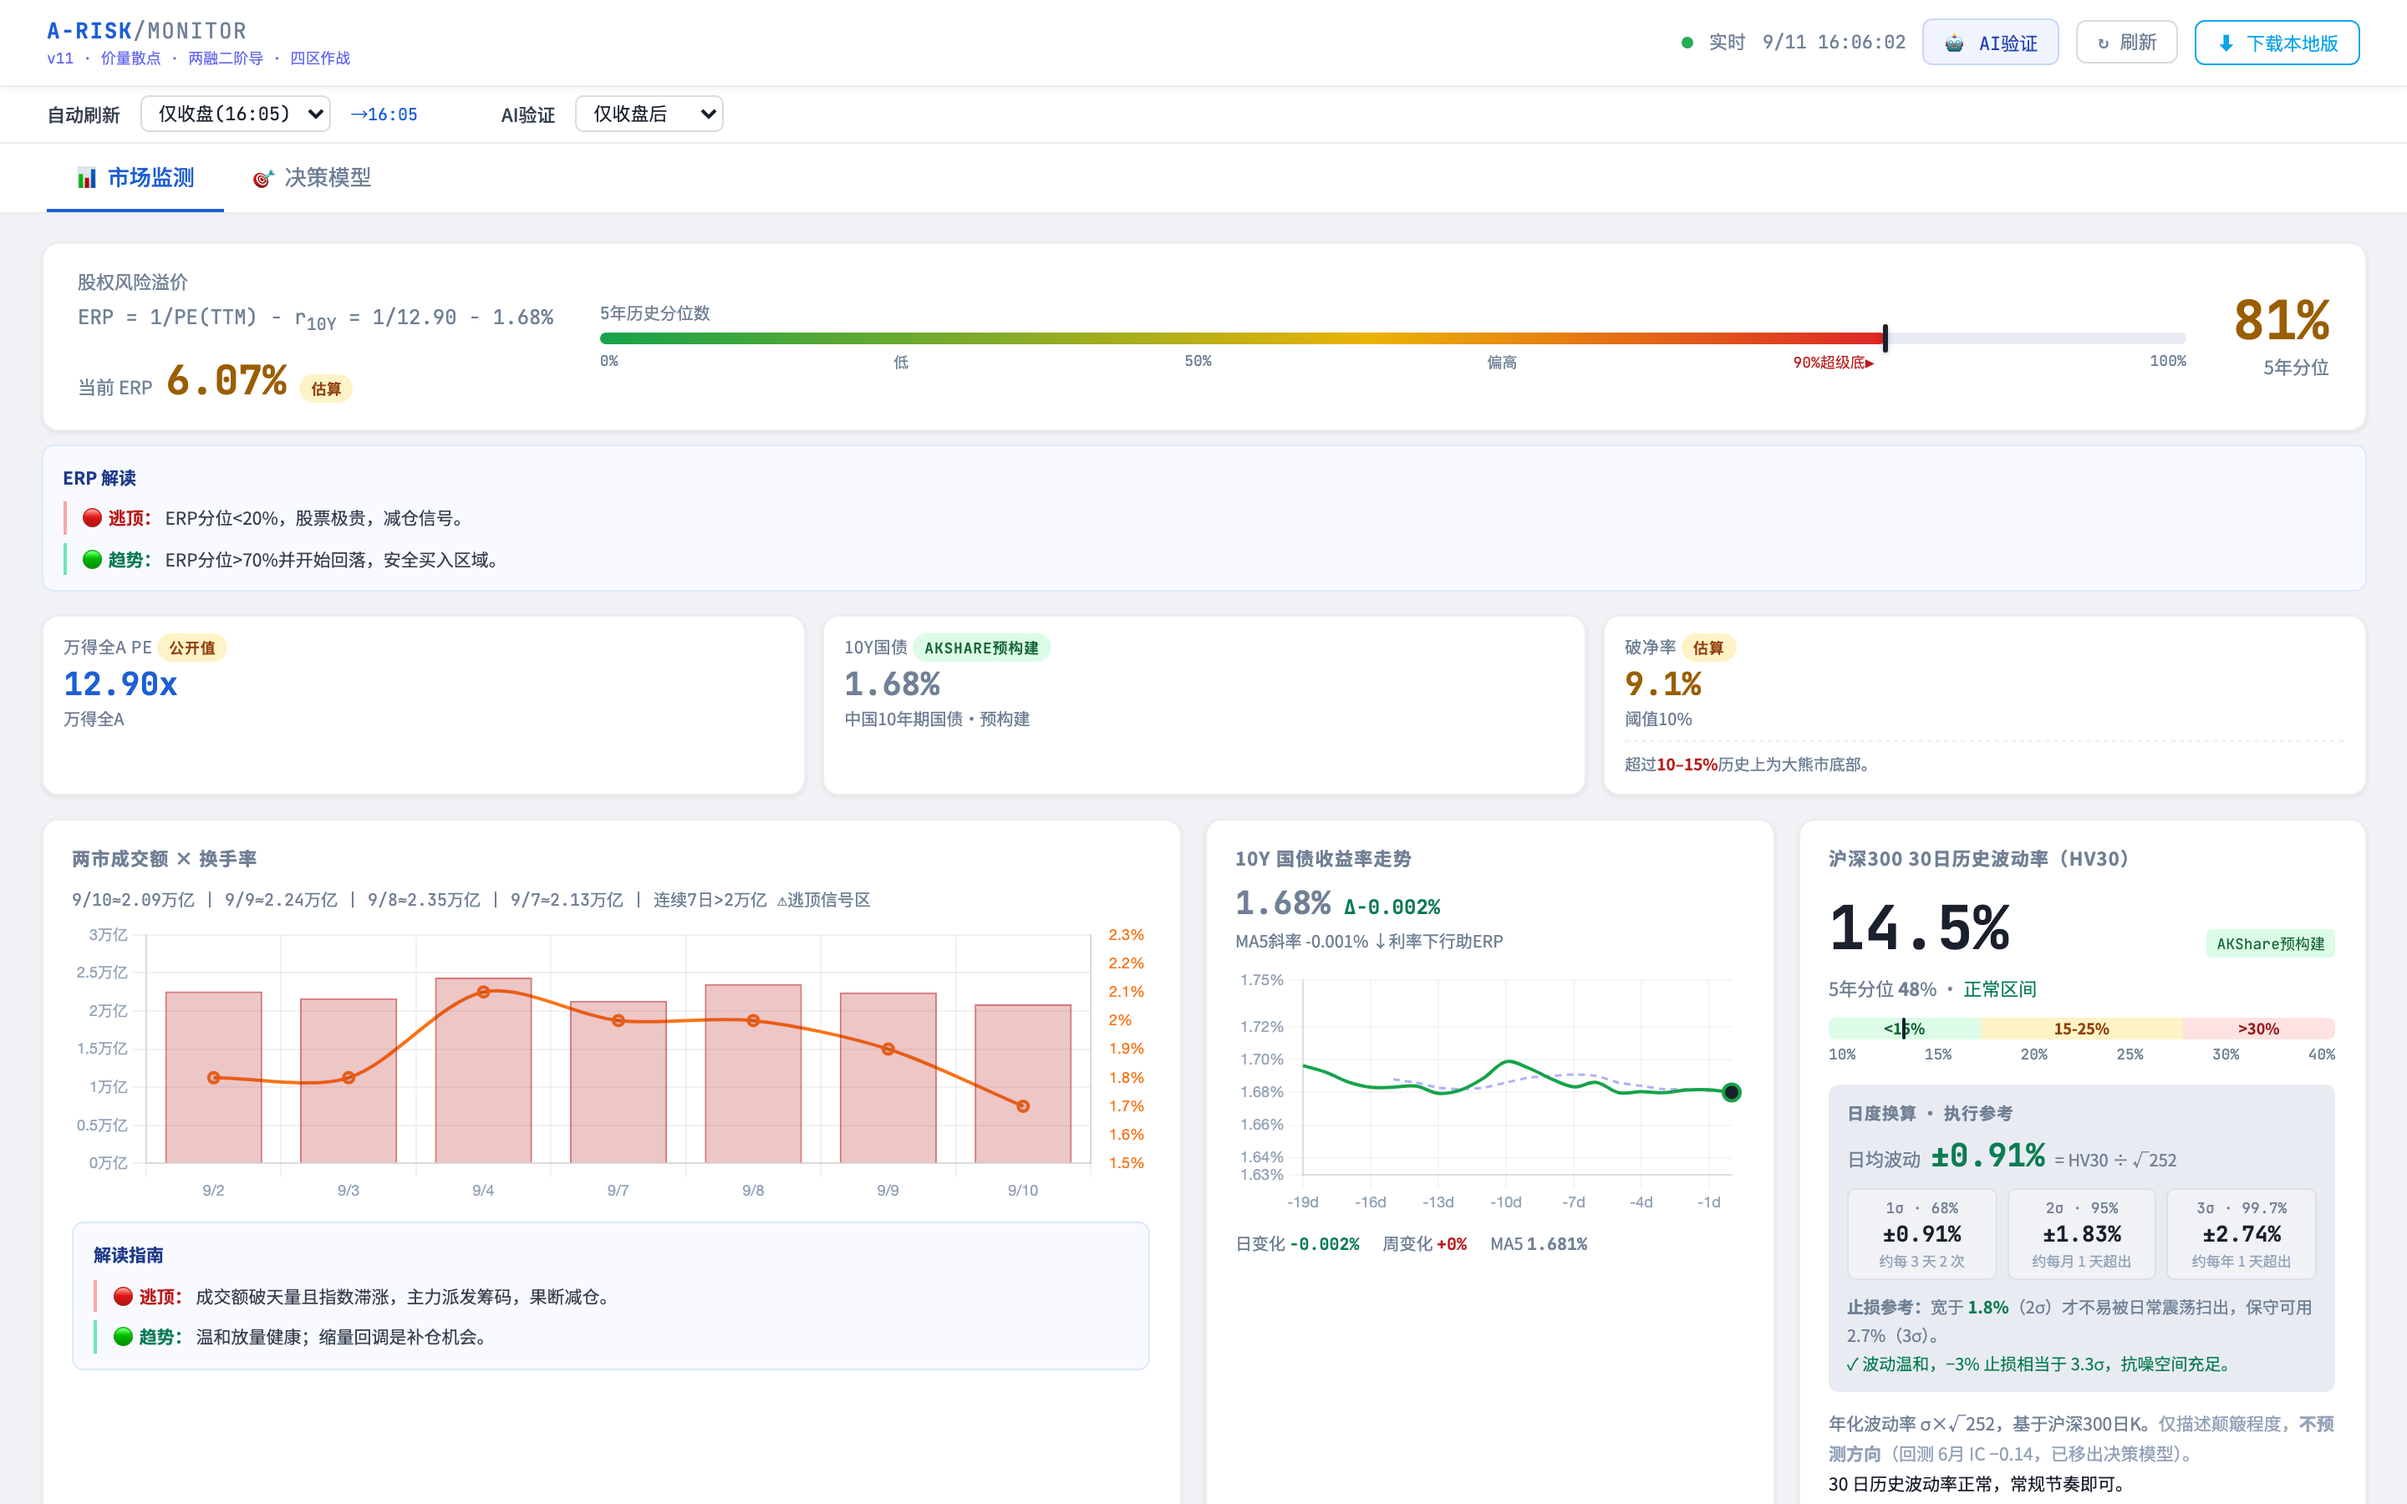
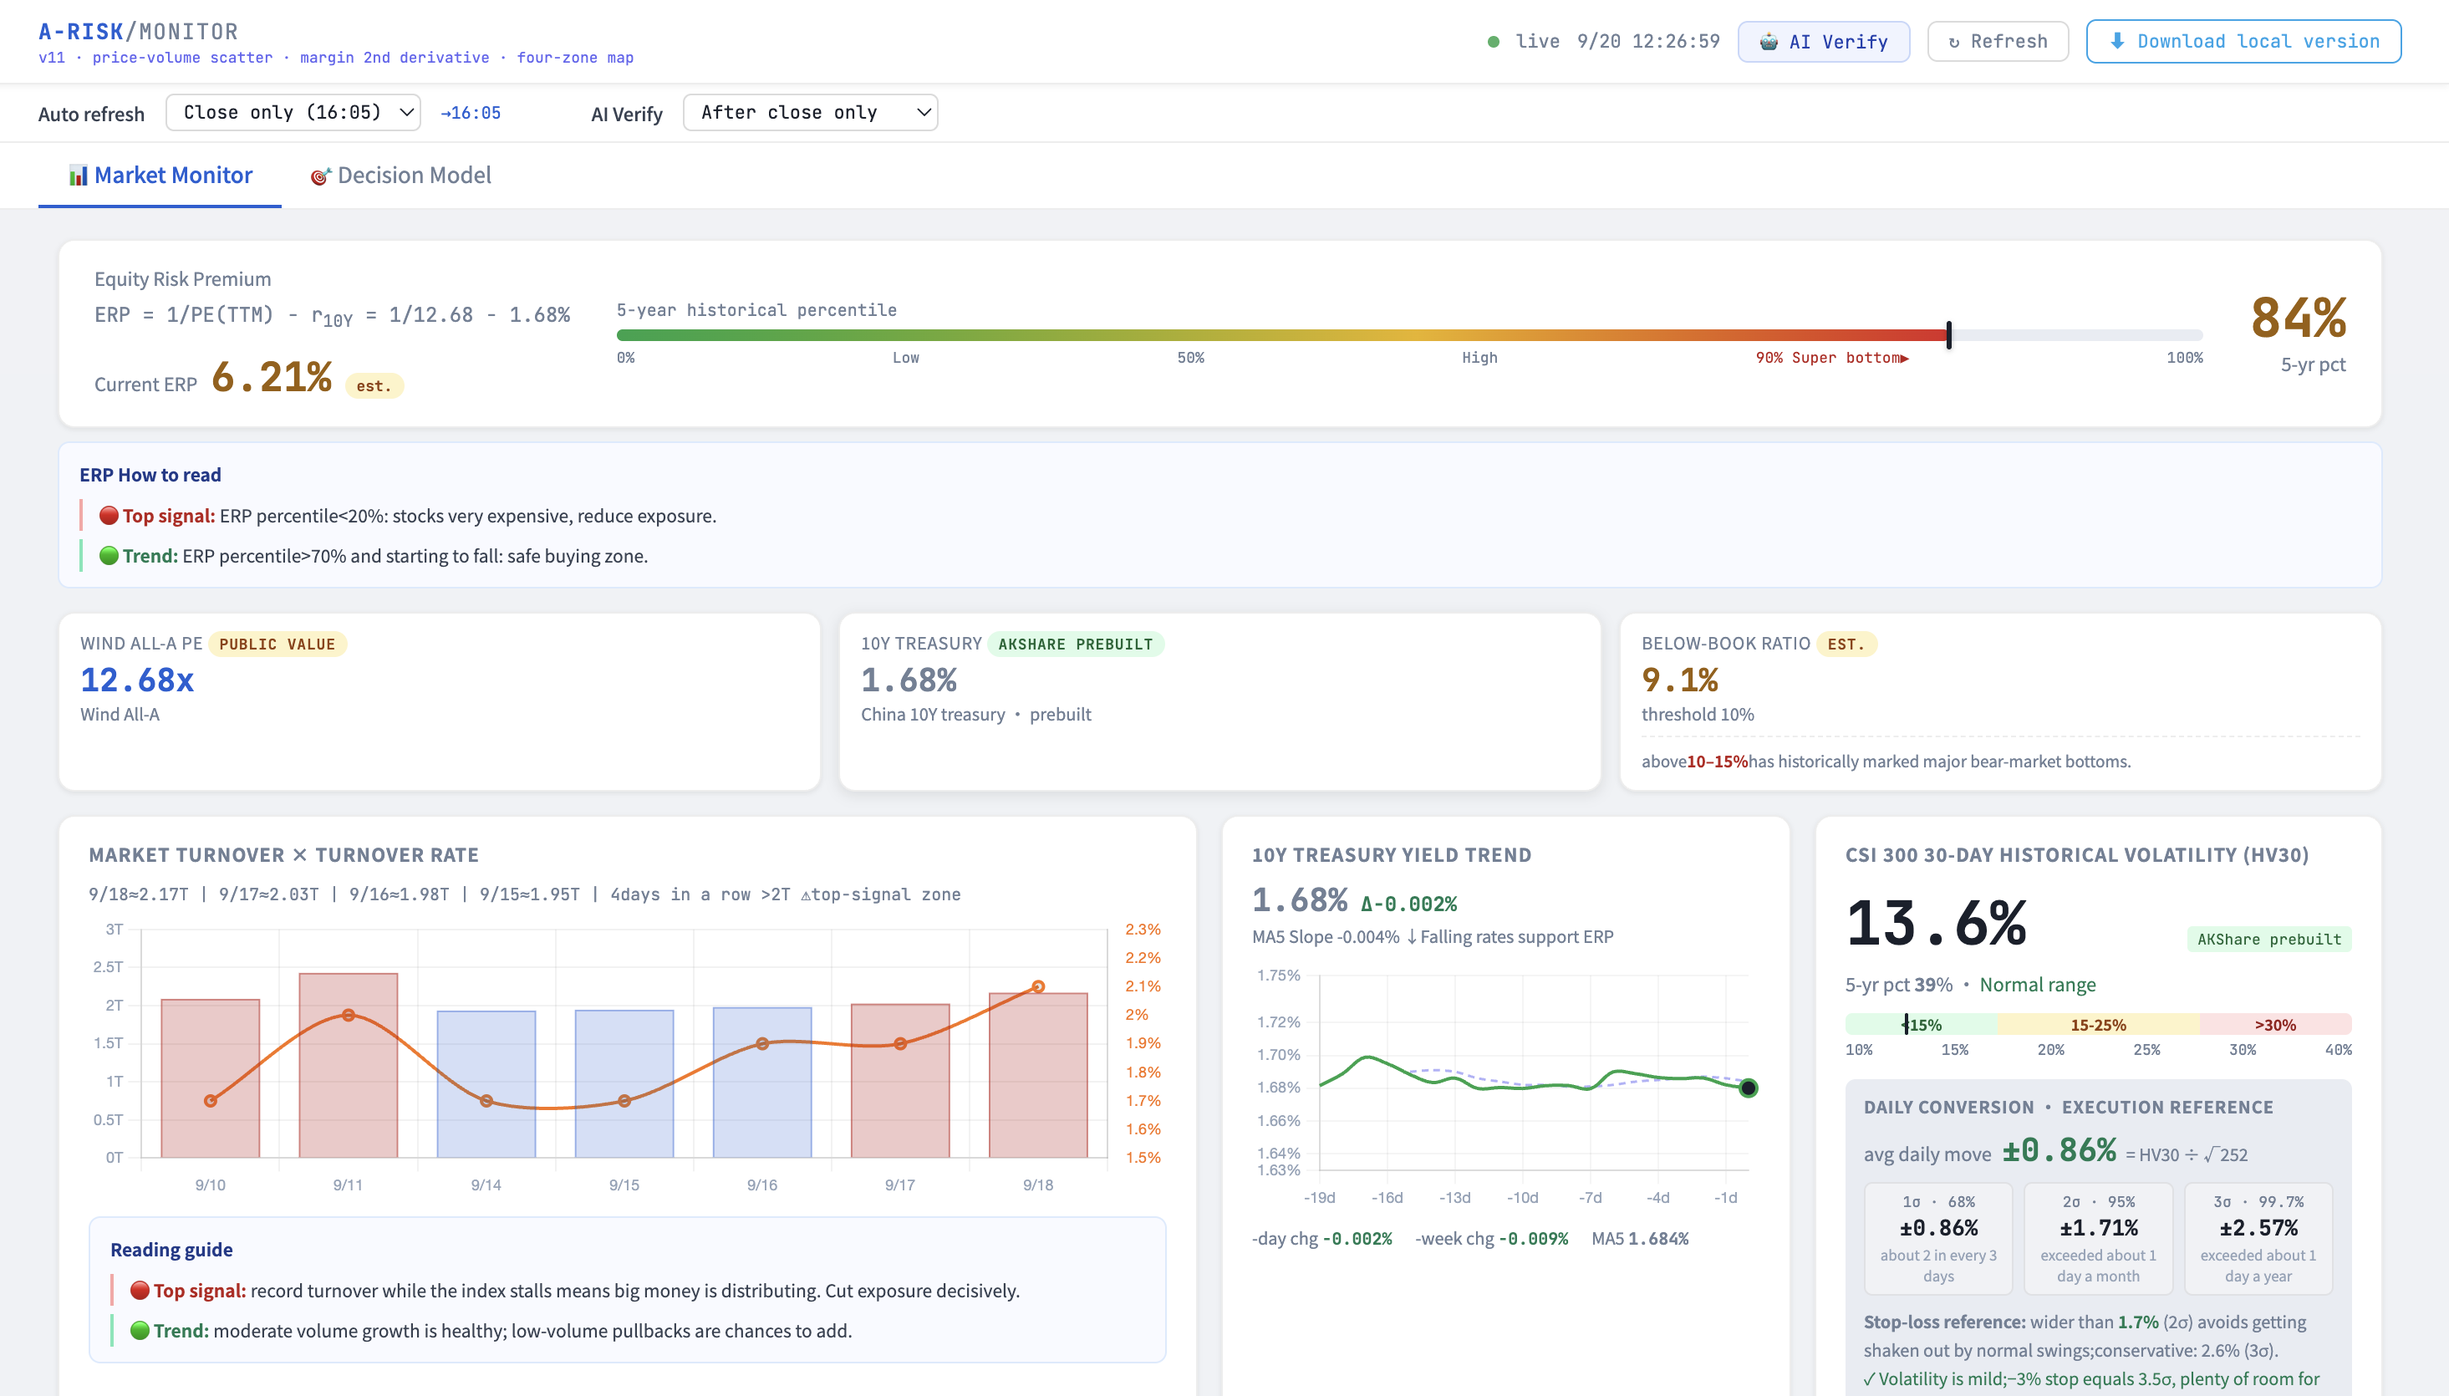
docs: English UI screenshots with live data

diff --git a/README.md b/README.md
@@ -8,7 +8,7 @@ Built entirely with AI, with no hand-written code.
 
 ![Dashboard](docs/screenshot.png)
 
-> 📊 [Full-length screenshot (ETF flows, sector heatmap, decision model)](docs/screenshot-full.png)
+> 📊 More screenshots: [ETF flows by category](docs/screenshot-flows.png) · [two-layer decision model](docs/screenshot-decision.png)
 
 > ⚠ For research and learning only. Nothing here is investment advice.
 
